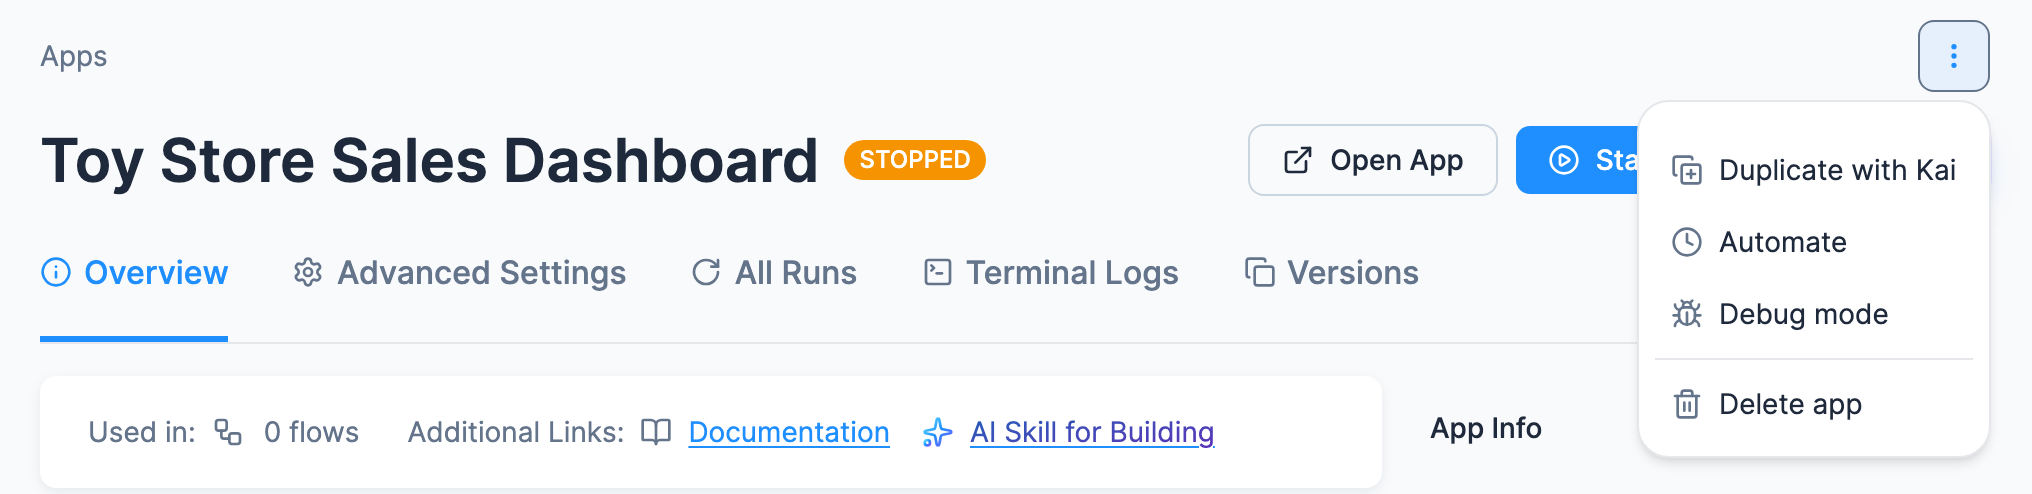
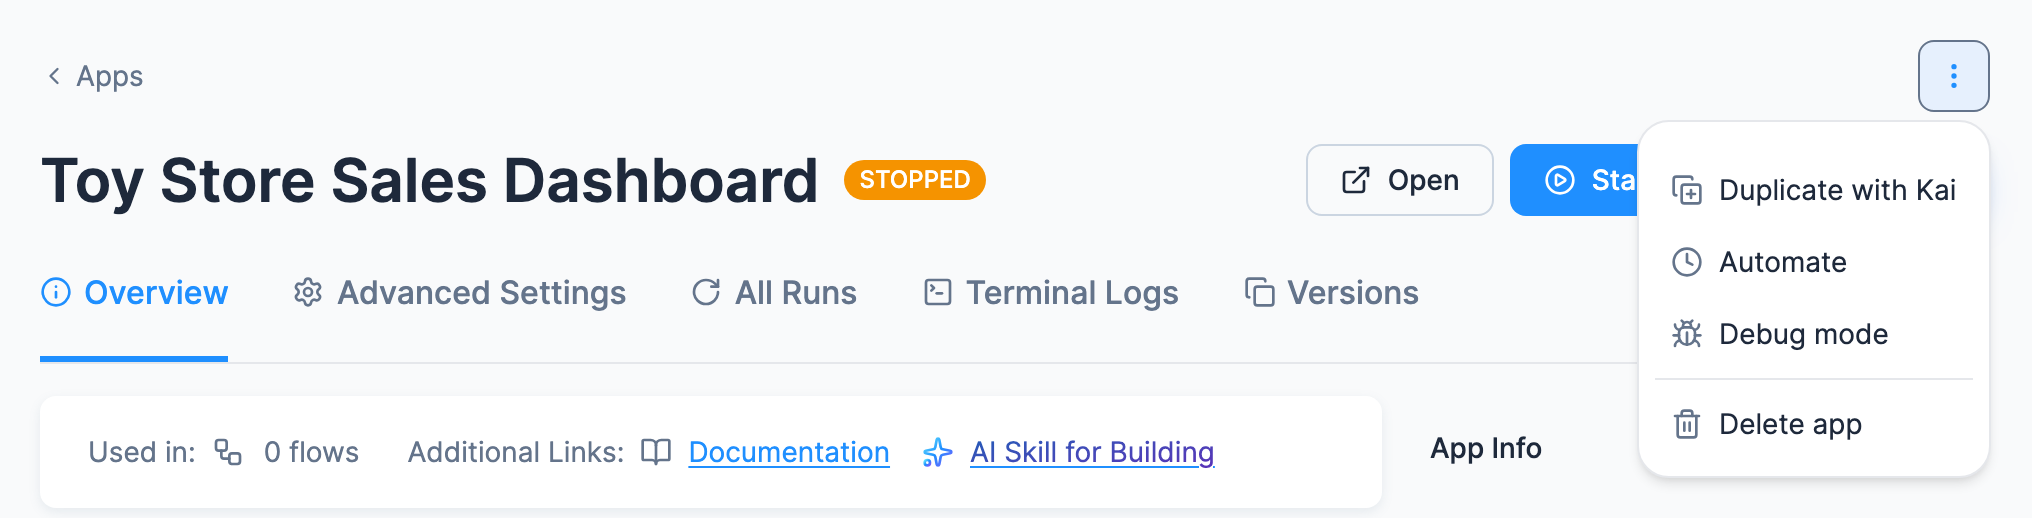
PRDCT-692: retake the actions shot now that the header says Open
app-actions-menu.png was shot on 1 October, when the header button read
Open App. The UI renamed it Open on 2 October, so the shot and its alt
text on publish-and-share and reference no longer matched the text
around them (#1159). The review bot flagged both on this PR.

Retaken on 6 October in project 264 (europe-west3), UI build
kbc-ui/bundle.BeQYTX6g.js (Last-Modified 06 Oct 11:46 GMT), on the same
app as before: Toy Store Sales Dashboard, App ID 74016144, deployed and
stopped (GET data-science /apps/74016144 said stopped before and after).
Headless Playwright with the saved session. The only click was the ⋮
(More actions) trigger, closed with Escape. Same framing as the
1 October shot: 1100 px viewport at 2x, cropped to the breadcrumb,
header, tabs and the open menu (Duplicate with Kai, Automate, Debug mode,
Delete app). The top bar is cropped out, and the Versions panel's names
were blurred before the shot and fall outside the crop. Mean luma 242.7.

Source: OpenDataApp.tsx (TerminateDataApp-DvAPVWPU.js.map) labels the
header button Open, tooltip "Open the production app in a new tab". The
data-apps sources in this build match 2 October's bundle.DZIl0CMv.js
byte for byte, except Builder/kaiPrompts.ts, which adds two Kai prompts
for drafts.

diff --git a/src/content/docs/data-apps/publish-and-share.md b/src/content/docs/data-apps/publish-and-share.md
@@ -27,7 +27,7 @@ Share the app URL — found on the app's **Overview** tab (the **App URL** block
 
 From the app's header you can click **Open** and **Start** or **Redeploy**, depending on its state, and **Edit with Kai** on a Python/JS app with a [Keboola-managed repository](/data-apps/what-are-apps/#two-ways-to-run-an-app) if you can edit the app and Kai can build apps in the project. The **⋮** (More actions) menu holds the rest: **Duplicate with Kai** (**Duplicate** on apps without a Keboola-managed repository), **Automate** (start it on a schedule), **Debug mode** and **Delete app**, plus **Pause app** while the app is running. [Operate and update an app](/data-apps/operate/) walks through each one.
 
-![A stopped app's header with Open App and the ⋮ menu open over the Start button: Duplicate with Kai, Automate, Debug mode and Delete app](/data-apps/app-actions-menu.png)
+![A stopped app's header with Open and the ⋮ menu open over the Start button: Duplicate with Kai, Automate, Debug mode and Delete app](/data-apps/app-actions-menu.png)
 
 ---
 

diff --git a/src/content/docs/data-apps/reference.md b/src/content/docs/data-apps/reference.md
@@ -177,7 +177,7 @@ The **Terminal Logs** tab provides an **almost real-time** view of the applicati
 
 Manage an app from the header and the **⋮** (More actions) menu on its page.
 
-![A stopped app's header with Open App and the ⋮ menu open over the Start button: Duplicate with Kai, Automate, Debug mode and Delete app](/data-apps/app-actions-menu.png)
+![A stopped app's header with Open and the ⋮ menu open over the Start button: Duplicate with Kai, Automate, Debug mode and Delete app](/data-apps/app-actions-menu.png)
 
 - **Deploy** — starts an app that has never run. Once the deployment job finishes, open the app with **Open**.
 - **Open** — on any app that has been deployed, opens the **Open app** dialog, whatever the app's authentication. The dialog shows the app's address with a copy button, then the hidden password with its own copy button. An app without a password gets a line saying why instead. The dialog's **Open app** button opens the app in a new tab.
